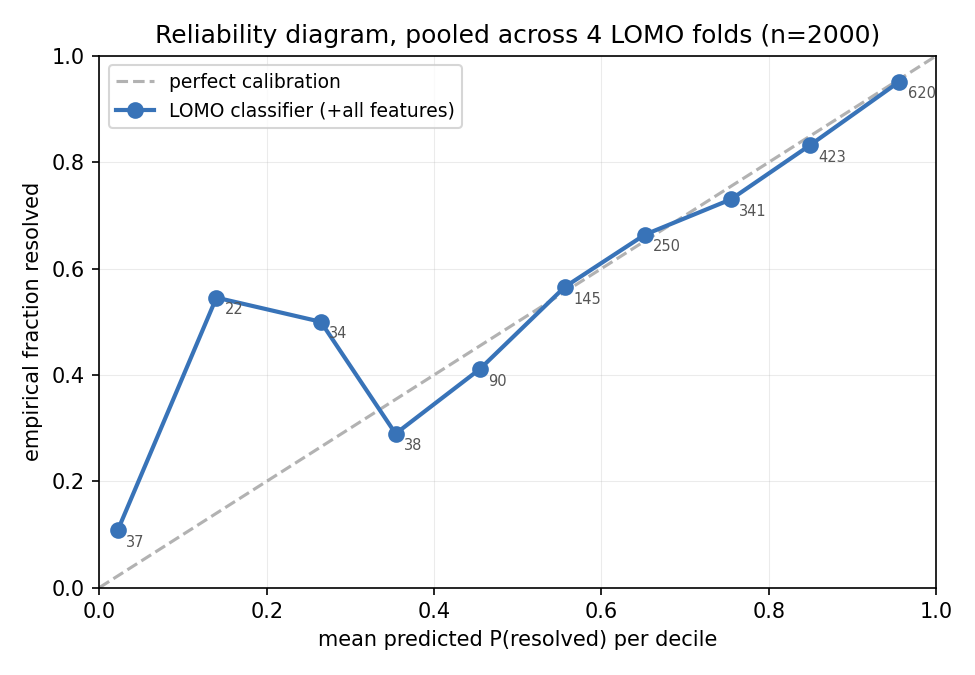
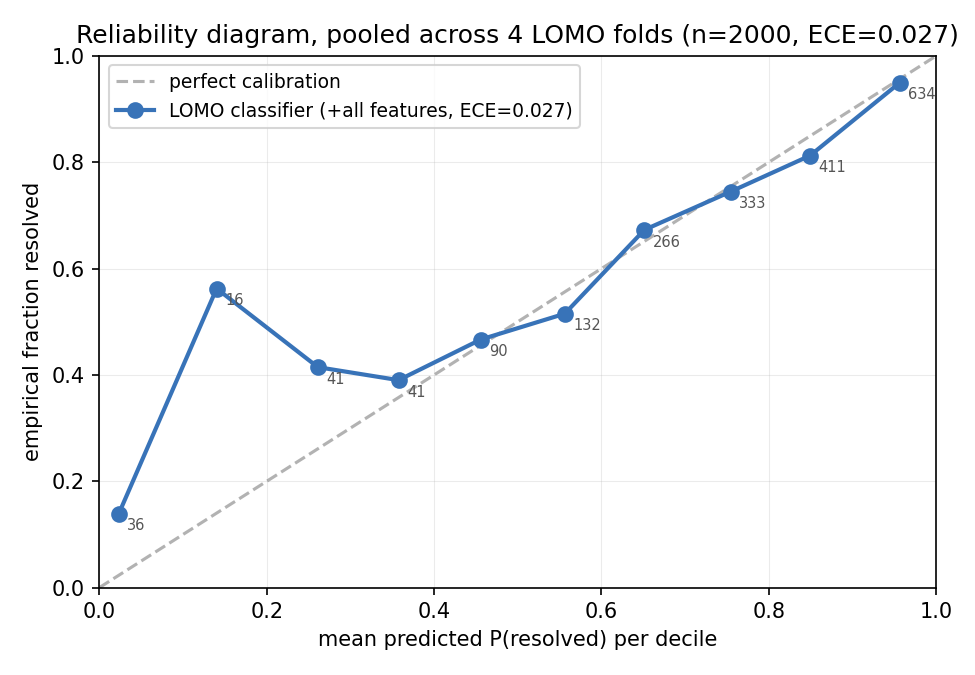
classify_prefix + plot: GroupKFold by instance, ECE on calibration
classify_prefix within-model CV now uses GroupKFold(instance_id) instead
of a random shuffle, so the per-fold variance estimate reflects the
per-instance grouping the LOMO numbers are tested against.

plot.py:
- ECE on the +all LOMO classifier = 0.027 over 10 equal-width bins.
  Printed to stdout and into the calibration plot title.
- survival_curve docstring + plot title now flag the bands as pointwise
  marginal CIs, not a simultaneous band. KM-with-Greenwood is the right
  tool; left for follow-up.

diff --git a/plot.py b/plot.py
@@ -28,12 +28,34 @@ COLOURS = {
 }
 
 
+def ece(probs: np.ndarray, labels: np.ndarray, bins: int = 10) -> float:
+    """Expected calibration error on equal-width probability bins."""
+    bin_edges = np.linspace(0, 1, bins + 1)
+    bin_idx = np.digitize(probs, bin_edges[1:-1])
+    error = 0.0
+    for b in range(bins):
+        mask = bin_idx == b
+        if mask.sum() == 0:
+            continue
+        bin_acc = labels[mask].mean()
+        bin_conf = probs[mask].mean()
+        error += (mask.sum() / len(probs)) * abs(bin_acc - bin_conf)
+    return float(error)
+
+
 def survival_curve(
     turns: np.ndarray, resolved: np.ndarray, ks: np.ndarray, n_boot: int = 1000, seed: int = 1
 ) -> tuple[np.ndarray, np.ndarray, np.ndarray, np.ndarray]:
     """For each k in ks, return (point estimate, lo, hi, n_at_risk).
 
-    P(resolve | reached turn k) bootstrapped over the observed instances.
+    P(resolve | reached turn k) at the *marginal* level: bootstrap is
+    over instances at each k independently, so the bands are pointwise
+    95% CIs, not a simultaneous band. That makes statements about the
+    *whole curve* (e.g. "Claude 4.5 Opus collapses faster than Gemini")
+    informal rather than statistically tested. Kaplan-Meier with
+    Greenwood's formula would give a proper survival band; I left that
+    for follow-up because the practical statement here is point-estimate
+    plus per-k confidence.
     """
     rng = np.random.default_rng(seed)
     n = len(turns)
@@ -79,7 +101,7 @@ def main() -> None:
         ax.fill_between(ks, lo, hi, color=COLOURS[m], alpha=0.18, linewidth=0)
     ax.set_xlabel("turn count k (assistant messages)")
     ax.set_ylabel("P(resolve  |  trajectory reached turn k)")
-    ax.set_title("Conditional resolve probability by depth (95% bootstrap CI)")
+    ax.set_title("Conditional resolve probability by depth (pointwise 95% bootstrap CI)")
     ax.set_ylim(0, 1)
     ax.set_xlim(0, 120)
     ax.grid(alpha=0.25, linewidth=0.5)
@@ -236,10 +258,12 @@ def main() -> None:
         mean_pred = np.array([ps_arr[digi == b].mean() if (digi == b).any() else np.nan for b in range(10)])
         emp = np.array([ys_arr[digi == b].mean() if (digi == b).any() else np.nan for b in range(10)])
         nbin = np.array([(digi == b).sum() for b in range(10)])
+        ece_value = ece(ps_arr, ys_arr, bins=10)
+        print(f"ECE (10 equal-width bins, +all LOMO): {ece_value:.4f}")
         fig, ax = plt.subplots(figsize=(6.5, 4.5))
         ax.plot([0, 1], [0, 1], "--", color="grey", alpha=0.6, label="perfect calibration")
         ax.plot(mean_pred, emp, "o-", color="#3873b8", linewidth=2, markersize=7,
-                label="LOMO classifier (+all features)")
+                label=f"LOMO classifier (+all features, ECE={ece_value:.3f})")
         for x, y, n in zip(mean_pred, emp, nbin):
             if np.isnan(x):
                 continue
@@ -247,7 +271,7 @@ def main() -> None:
                         fontsize=7, color="#555")
         ax.set_xlabel("mean predicted P(resolved) per decile")
         ax.set_ylabel("empirical fraction resolved")
-        ax.set_title("Reliability diagram, pooled across 4 LOMO folds (n=2000)")
+        ax.set_title(f"Reliability diagram, pooled across 4 LOMO folds (n=2000, ECE={ece_value:.3f})")
         ax.set_xlim(0, 1); ax.set_ylim(0, 1)
         ax.grid(alpha=0.25, linewidth=0.5)
         ax.legend(loc="upper left", fontsize=9)

diff --git a/classify_prefix.py b/classify_prefix.py
@@ -19,6 +19,7 @@ from pathlib import Path
 import numpy as np
 from sklearn.linear_model import LogisticRegression
 from sklearn.metrics import roc_auc_score, brier_score_loss
+from sklearn.model_selection import GroupKFold
 from sklearn.preprocessing import StandardScaler
 
 ROOT = Path(__file__).parent
@@ -59,22 +60,30 @@ def fit_eval(train: list[dict], test: list[dict]) -> tuple[float, float, float]:
     return roc_auc_score(yte, proba), brier_score_loss(yte, proba), proba.mean()
 
 
-def within_model_cv_auc(rows: list[dict], n_splits: int = 5, seed: int = 1) -> tuple[float, list[float]]:
-    """Per-model 5-fold CV AUC, then average across models. Sanity check that
-    the LOMO decay isn't a transfer artifact: if within-model CV also decays,
-    the signal really is weakening."""
-    rng = np.random.default_rng(seed)
-    aucs = []
+def within_model_cv_auc(rows: list[dict], n_splits: int = 5) -> tuple[float, list[float]]:
+    """Per-model GroupKFold CV AUC keyed by instance_id, averaged across models.
+
+    Earlier this used `np.random.shuffle`-style folds, which understates
+    the variance of CV estimates because different folds can hold rows
+    from the same instance the model has seen at a different prefix
+    length. With one row per (model, instance, k) and a fixed k subset
+    here, the shuffle isn't a leak per se, but GroupKFold matches the
+    per-instance variance the LOMO numbers are tested against.
+    """
+    aucs: list[float] = []
     for m in LABELLED:
         sub = [r for r in rows if r["model"] == m]
         if len(sub) < 50 or len({r["resolved"] for r in sub}) < 2:
             continue
-        idx = np.arange(len(sub))
-        rng.shuffle(idx)
-        folds = np.array_split(idx, n_splits)
-        for f in folds:
-            test = [sub[i] for i in f]
-            train = [sub[i] for i in idx if i not in set(f)]
+        groups = np.array([r["instance_id"] for r in sub])
+        n_groups = len(set(groups.tolist()))
+        if n_groups < n_splits:
+            continue
+        kf = GroupKFold(n_splits=n_splits)
+        idx_arr = np.arange(len(sub))
+        for train_i, test_i in kf.split(idx_arr, groups=groups):
+            test = [sub[i] for i in test_i]
+            train = [sub[i] for i in train_i]
             if len({r["resolved"] for r in test}) < 2:
                 continue
             auc, _, _ = fit_eval(train, test)
